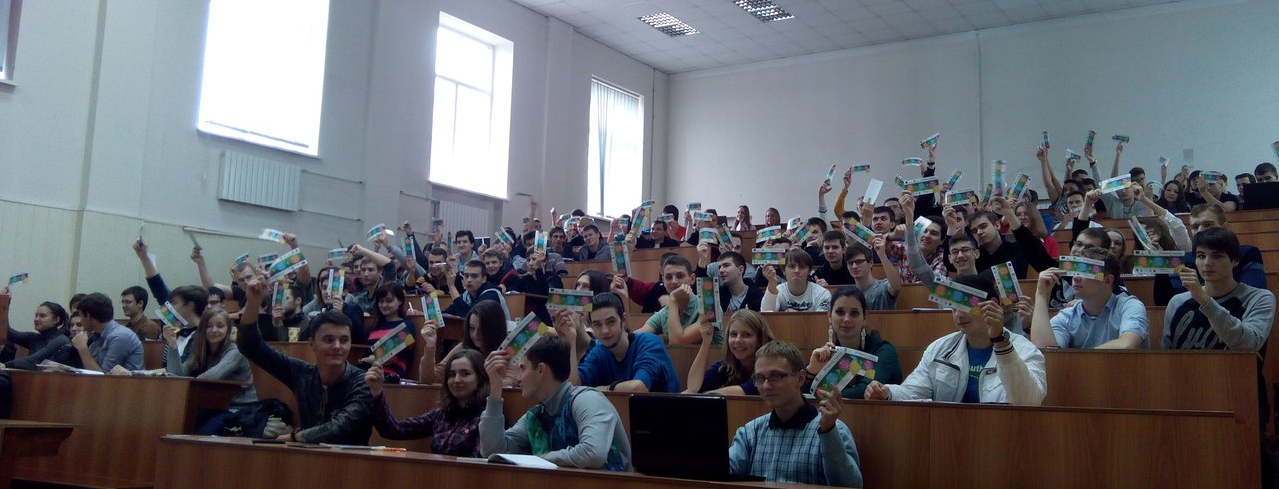
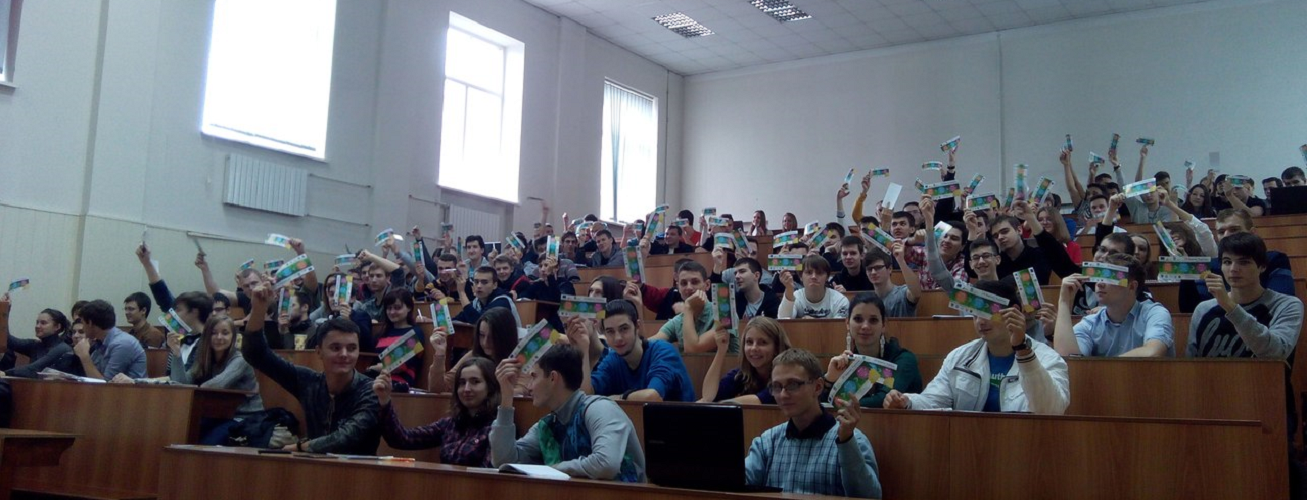
fix carousel, scale images to exact height

diff --git a/index.html b/index.html
@@ -432,7 +432,7 @@ License URL: http://creativecommons.org/licenses/by/3.0/
 					<div class="col-md-3 col-sm-3 team-top top-team">
 						<div class="view view-seventh">
 							<div class="img-wrapper"><img class="img-responsive" src="images/Staff/Kobzeva.jpg" alt="name"></div>
-			                    <h6>Кобозева А.А</h6>
+			                    <h6>Кобзева А.А</h6>
 			                    <p>Профессор ОНПУ</p>
 			            </div>
 					</div>

diff --git a/css/style.css b/css/style.css
@@ -756,11 +756,17 @@ div#services {
     line-height: 415px;
     vertical-align: middle;
 }
+
 .carousel-img-wrapper {
     height: 500px;
-    line-height: 500px;
-    vertical-align: middle;
 }
+
+.carousel-img-wrapper > img {
+    object-fit: cover;
+    height: 100% !important;
+
+}
+
 .view img {
    display: inline-block;
    position: relative;
